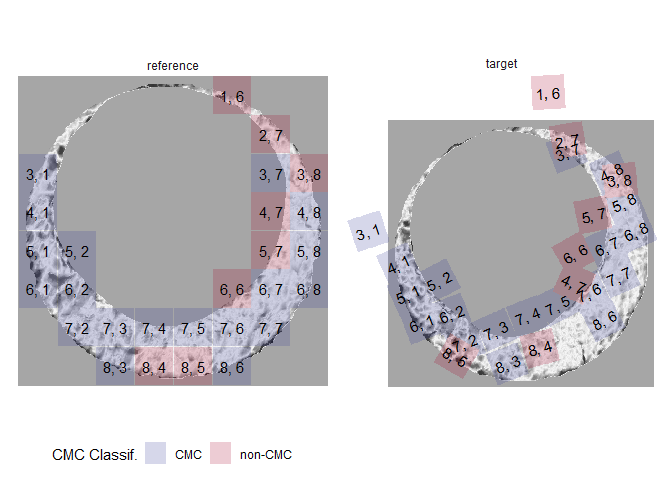
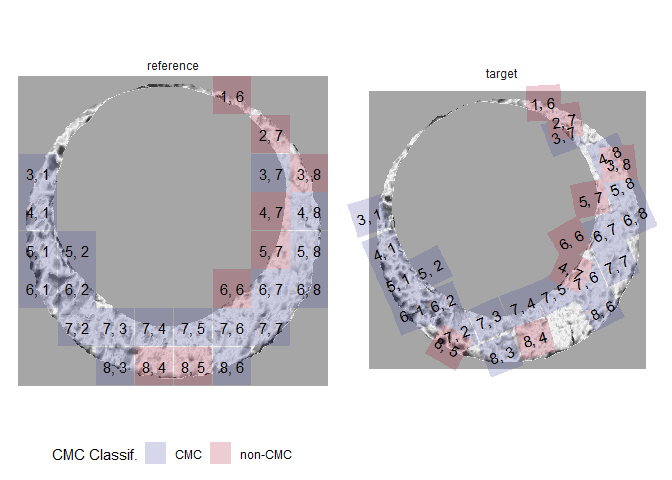
Change README instructions to install from master branch of repo

Changed region(s): [[0.5, 0.125, 1.0, 0.8125], [0.6562, 0.2812, 0.6875, 0.3125]]

diff --git a/README.md b/README.md
@@ -30,7 +30,7 @@ Install the development version from
 
 ``` r
 # install.packages("devtools")
-devtools::install_github("jzemmels/cmcR@dev")
+devtools::install_github("jzemmels/cmcR")
 ```
 
 Cartridge case scan data can be accessed at the [NIST Ballisitics
@@ -820,30 +820,21 @@ decision_combineDirections(kmComparison_allCMCs %>%
 #> 
 #> 
 #> $highCMCs
-#> # A tibble: 19 x 10
+#> # A tibble: 24 x 10
 #>    cellIndex     x     y fft_ccf pairwiseCompCor theta refMissingCount
 #>    <chr>     <dbl> <dbl>   <dbl>           <dbl> <dbl>           <dbl>
-#>  1 5, 2         -4    20   0.175           0.825   -27            4338
-#>  2 7, 5          7     2   0.172           0.722   -27            1688
-#>  3 8, 6          6    -2   0.269           0.650   -27            2874
-#>  4 4, 1         -6    10   0.353           0.844   -24            1666
-#>  5 4, 8         -7     2   0.190           0.661   -24            1427
-#>  6 5, 1         -6    11   0.331           0.840   -24            1278
-#>  7 5, 8         -6     3   0.248           0.745   -24            1548
-#>  8 6, 7         -6     3   0.222           0.696   -24             313
-#>  9 6, 8         -5     7   0.257           0.789   -24            2912
-#> 10 7, 3         -3     8   0.217           0.749   -24             412
-#> 11 7, 6         -2     1   0.227           0.774   -24              43
-#> 12 7, 7         -4     5   0.360           0.839   -24            1103
-#> 13 3, 7         -4    17   0.177           0.748   -21            4428
-#> 14 6, 1        -11     1   0.317           0.822   -21            2826
-#> 15 6, 2         -6    -4   0.344           0.797   -21             852
-#> 16 7, 2        -11    -1   0.312           0.738   -21            1048
-#> 17 7, 4        -14     4   0.251           0.805   -21            2132
-#> 18 8, 3         -9    -4   0.269           0.755   -21            2753
-#> 19 3, 1          4    -9   0.514           0.874   -18            2829
-#> # ... with 3 more variables: targMissingCount <dbl>, jointlyMissing <dbl>,
-#> #   direction <chr>
+#>  1 3, 1         -9    15   0.442           0.828   -24            2829
+#>  2 3, 7        -11     5   0.181           0.739   -24            4428
+#>  3 5, 1         -6    11   0.331           0.840   -24            1278
+#>  4 5, 2         -5    10   0.180           0.790   -24            4338
+#>  5 6, 1         -7    14   0.330           0.813   -24            2826
+#>  6 6, 7         -6     3   0.222           0.696   -24             313
+#>  7 7, 4         -4     6   0.252           0.800   -24            2132
+#>  8 7, 6         -2     1   0.227           0.774   -24              43
+#>  9 7, 7         -4     5   0.360           0.839   -24            1103
+#> 10 8, 3          3     2   0.269           0.734   -24            2753
+#> # ... with 14 more rows, and 3 more variables: targMissingCount <dbl>,
+#> #   jointlyMissing <dbl>, direction <chr>
 ```
 
 The final step is to decide whether the number of CMCs computed under
@@ -875,8 +866,6 @@ cmcPlot(reference = fadul1.1_processed,
     group_by(cellIndex) %>%
     filter(pairwiseCompCor == max(pairwiseCompCor)),
                     cmcCol = "originalMethodClassif")
-#> Warning: Raster pixels are placed at uneven vertical intervals and will be
-#> shifted. Consider using geom_tile() instead.
 ```
 
 <img src="man/figures/README-unnamed-chunk-18-1.png" width="100%" />
